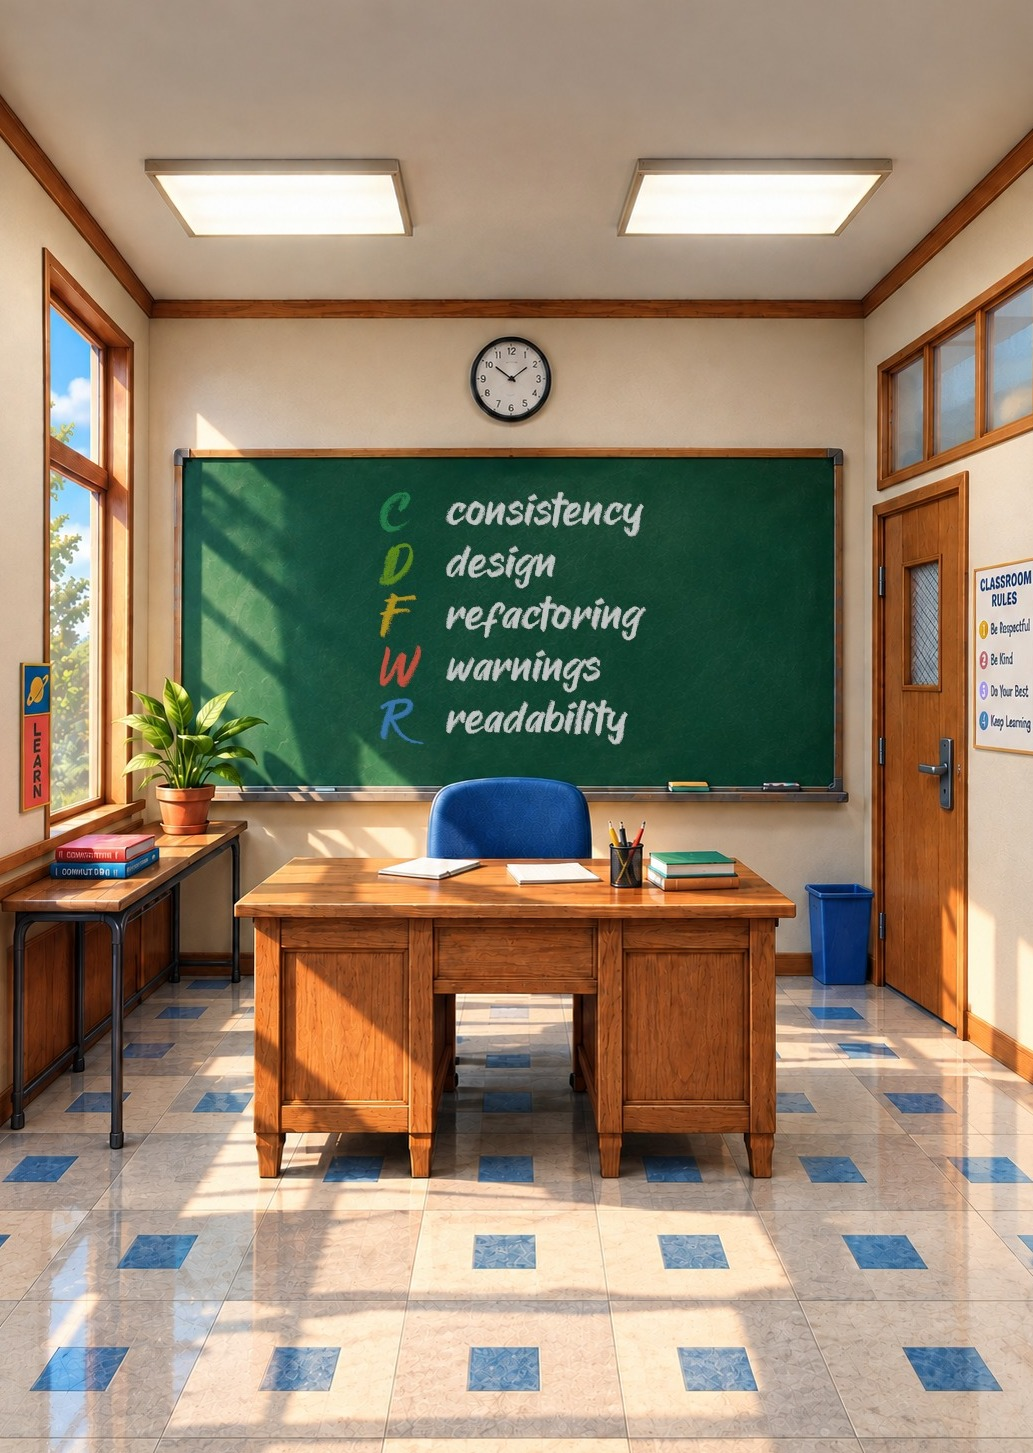
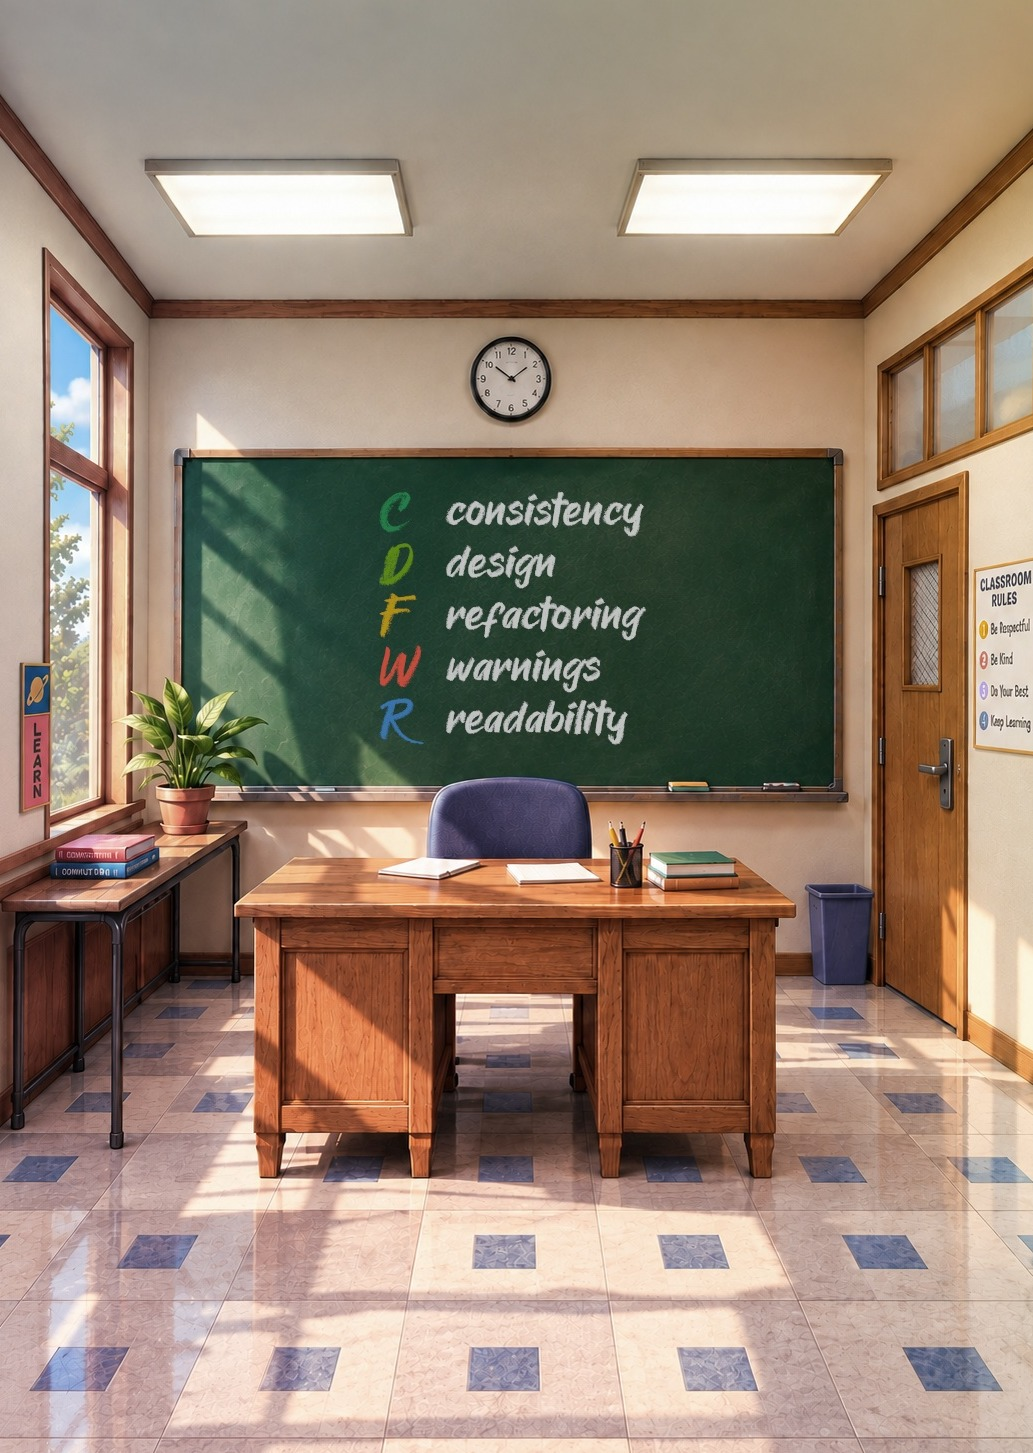
credo's classroom graded toward the violet
The author regraded the expansion in the editor, cooler and toward the
house violet, nothing moved. Logged as change 4, the hero cut at the
same place, stamped with the recorded options.

diff --git a/assets/covers/README.md b/assets/covers/README.md
@@ -142,7 +142,7 @@ rather than read back off a cover.
 | db_admin | console, late 80s — proposal 4, the alternative, chosen against an early-carton recommendation; the second console cover after exdebug. The box that pgadmin and adminer merged into; neither had art | lucid — the mechanism lets you see what you had been handling blind, laid out as it is, and leaves the hands to you; added for this cartridge | tr, `--size 0.19`, `--mark pgAdmin=marks/1-pgadmin.png --mark phpMyAdmin=marks/2-phpmyadmin.png --mark Adminer=marks/3-adminer.png --mark CloudBeaver=marks/4-cloudbeaver.png` — two turns under the banner, hero at 4:5 (825×1024) with its own lockup and no flash, first take; the expansion found at 1.00, edge-padded 5–15px within tolerance. The badge is the four admins' own marks, the author's call: composited by `--mark`, never asked of the generator — the projects' files, in `marks/` with `SOURCES.md` (the author's reference image had DBeaver's beaver for CloudBeaver, phpMyAdmin's legacy schooner and Adminer without its `<?`) — a row of rounded squares, each name under it, centred along the top of the window, where the hero keeps its top fifth calm. The seal at the default 0.23 met the row's last square at tr and covered the subtitle's P at br: 0.19 at tr, the row at 0.06 of the window's height Back on the first plate: console, violet board with a hard gradient, the embossed shield holding the door's four portholes as circles, nothing lettered; its band came back tan and lighter and was kept, the strip set inside it (`NAME_Y=1.298`, `INSTALL_ROW=beside`). Two frames at the shots' 580:503, 0.40 of the width each, off two probes seeded with a plant's production lines and downtime: Adminer on Postgres and phpMyAdmin on MySQL, each opened through the file the box writes, cropped to the table at about 2×; the copy from `NEED.md` and `DESIGN.md`, headline *No more SQL in the dark*, badge `4 ADMINS` (the front's marks, counted); `ERA=console`, accent the vault's orange `#FC8133` |
 | precommit | manual — made in conversation with the generator from proposal 3 (the editorial cover) as its starting point, and the era left behind with it: what came back is a photographic door, not a printed editorial ground. The image is the source, `cover.prompt.txt` its log of changes | scrupulous — the mechanism holds back what you were about to send, over something small, and holds it because you fitted it there and for nobody else; subtitles halt (`NOT YET`). New for this cartridge | tr, `--inside`, `--size 0.20`, **no badge** — the typeset `4 CHECKS` was stamped once and taken off: a white chip reads as a sticker from another system on photographic art, and this hero composes its own lettering (`PreCommit` / `Not yet.`, title case, uncorrected — the image is the source). The expansion made by hand, not by the second turn (`precommit/expand.py`), since the margins are wood grain rather than flat fields: the hero's own edge rows and columns repeated outward, and every pixel of it falls under the board. Two generated takes are archived before it, with their prompts, and the editorial hero's sealed cover and expansion with the second. Kept against the format block's value clause on purpose: the art means 41.5 in luminance against the board's 56.1, and in the seal's corner 52.3 — not *clearly* darker. It reads as a socket all the same, and the reason is the overlay: a banner meets the art along the top and the foot only, where this hero is at its darkest, and the sides are open. One cover is not evidence enough to touch the clause. Back on the first plate, manual like the front: asked from the hero as the reference image, it came back violet and lit from the right like the door, the chain ghosted straight down its middle and the door's wood as the strip, nothing lettered — and a photographed 3–4px rim, trimmed rather than regenerated (the plate as it came is `back-1`). Two real terminal shots from a scratch project, a commit refused by the formatter in the container and the hook's two blocks; accent `#B9A88A`, the hero's aged brass at its brightest; the `4 CHECKS` badge the front does not carry, since on the back everything is typeset |
 | test_doubles | manual — made in conversation with the generator from proposal 5 (CD-ROM, early 90s) as the starting point, after the editorial prompt (proposal 3, as recommended) was written and generated and its take did not read: three handsets seen from above did not say *stand-in*, the whole idea resting on three small debossed captions under objects that are not figures. No editorial take reached the repository, so none is archived. The image is the source, `cover.prompt.txt` its log of changes. The box that takes over from `mock`; mock had no art | understudy — the mechanism sends in a stand-in that plays the part exactly, so the real one is never called and nothing is at risk; added for this cartridge. The other half of mailer's *rehearsing*: there the real thing runs and goes nowhere, here it is not run at all | tr, `--inside`, `--size 0.15`, `-m 0.05,0.0164` — the seal raised 10px off the default inset, to 117px from the face's top, which leaves 12px of window above it: the banner it rests on ends high, and at the default 127px the seal sat low on its frame; 112px put it within 7px of the band and read tight. The manual hero at 4:5 (825×1024) with its own lockup, badge and captions, no furniture; the expansion painted by the second turn, which named what continues on each side — the bridge's ceiling above, the deck's plating and console strip below, the wall's panelling and its recessed screens at the sides — and came back as the padded canvas scaled down whole (727×1024 from 863×1214), hero found at correlation 0.97, edge-padded 2px, 2px and 4px within tolerance, face 730×1027 with the board at 1.00× its own size. A hand expansion was made first (`test_doubles/expand.py`, kept as the fallback): the hero's top and bottom edge rows are one near-flat dark band (stddev 6.9 and 3.9 over the 8 rows at each edge) and continue cleanly, but **this overlay has no board at the sides**, so the 19px slivers `pad` leaves there are on the finished cover, and a repeated column of the bridge's wall panelling shows where a painted one does not — which is the case for sending the turn even when the margins above and below are flat. **A manual hero is never told to keep a corner calm**, and this one came back with lettering in all four: badge at top left, a banner at top right, the lockup across both bottom corners — so the lettering bands were measured in the hero's own fractions before a corner was chosen (banner 0.073–0.857 of the width at 0.03–0.14 of the height; captions to 0.928 at 0.16–0.25), and at 0.23 the seal ate `Hammox` and the top of `BUILT TO SPEC` at tr and the lockup at either bottom corner. Change 1 of the log shortened the banner from `Mimic · Mox · Hammox` to `Mimic · Mox` — which also took a contradiction off the face, the badge counting two doubles beside three names, Hammox being what `--type-check` puts in Mox's place and not a third value of `--double` — and the seal at 0.15 clears every string, resting on the empty right end of the banner's frame  Back on the first plate, manual like the hero and made in conversation, not from the prompt written for it: not a board but an **interior** — a violet bulkhead with a lit panel of gears across the middle, a bench of flasks and two CRTs along the foot, two ghosted sunbursts, nothing lettered. It breaks the pattern the strip assumes, and composes anyway (`back.md`: judge a plate composed, not bare): measured band by band, the ceiling at 0.00-0.12 is the flattest field (stddev 6-10) and takes the two frames; the gears at 0.44-0.70 (stddev 17-24) carry the features, which read over them in the era's black; the plain wall at 0.70-0.80 takes the quote; the dark foot from 0.94 (stddev 11-19) is the band, thin, so `INSTALL_ROW=beside` and the row a step smaller (`NAME_POINT=0.019`, `INSTALL_POINT=0.014`) — at `NAME_Y=1.325` the legal line and the version ran off the face, 1.295 fits them. Two 600:279 frames at 0.40 of the width (2.06x), both terminals off a local `phx.new` probe with coverage installed, which is the cartridge that composes this box: the test helper with coverage's own block and the `mimic` dep behind it, and `mix test` on the cover task — nine green, `0.2s async, 0.00s sync`, the concurrency `mock` had cost it. The shots were cropped to their content and the shorter padded to the other's height, so both frames take one rectangle. The copy from `NEED.md` and `DESIGN.md`, headline *The real one never answers*, the quote Valim's own; the flash's second line cut to two-part versions to fit its box; `ERA=cdrom`, accent the wireframe figure's cyan read off the hero (#B9E6F3) |
-| credo | manual — made by the author outside the repository from proposal 7 (the classroom, the author's own, off Credo's own word for itself, *teaching*) and the classroom drawing that was its reference; the image is the source, `cover.prompt.txt` its log of changes. It replaces a prompted console hero (late 80s) of five takes: 1 carton (27 fractions lettered on the face), 2 not generated, 3 console (6 fractions as a margin scale), 4 accepted and its lockup kept, 5 sealed — the prompted box archived whole as `cover-4*` (hero, padded canvas, expansion, cut, sealed), the manual hero as it arrived as `hero-manual-1.png`. The drawing and its 4:5 crop were deleted by the author | tireless — the same remark the thousandth time as the first, no heat in it (added for credo); subtitle `THE LESSON STANDS` | tr, `--inside --size 0.18`, `--mark credo=marks/1-credo.png --lockup art/lockup.png --lockup-fit 0.50,0.05 --lockup-at 0.5,0.838 --mark-beside-lockup` — Credo's own mark and the title composited as one centred block in the **lower part** of the window, over the desk's legs and the tiled floor (set by the author by eye at 0.838, 100px above the first 0.92), the calmest band of this hero; the seal inside at top right, on the ceiling between the right fixture and the transom windows. The prompted hero had them the other way round (lockup at the top over a bare ceiling, `--seal-at 0.5,0.93`), and on this hero that put the subtitle over the wall clock and the title over both fixtures; straddling tr, the seal covers the banner's `WORKBENCH`. The manual hero at 4:5 (1126×1397), the board chalked with the five groups and their colours, no title, no badge; the expansion painted by the second turn, which came back as the padded canvas scaled down whole (1057×1488 from 1177×1656), hero found at correlation 0.93, face 1033×1453, the board 1.42× its own size. Change 2 put the board's five rows in the colours of Credo's mark, its bars top to bottom (green, lime, mustard, coral, blue), chosen by the author over the terminal's cyan, olive, yellow, blue and red, and corrected `Warning` to *Warnings*; it was sent to the expansion rather than the hero and came back at the expansion's size with nothing else moved, so the hero is cut from the expansion where `cut` had found the first (correlation 1.00). Change 3, made by the author and logged after it, rewrote the board in chalk — lowercase words after coloured chalk initials, the ruled table gone — sent to the expansion again and cut and stamped as change 2 was; it reads C, D, F, W, R, the last two swapped against the mark's bars. Open: two book spines lettered in non-words. Back on the first plate, from its prompt alone with no reference attached: violet board lit from the upper left like the front, a blind-stamped shield holding **five bars** (the five groups, the mark's echo with no lettering), the band from 1.260; two frames at 600:520 holding real screens off a `phx.new` probe with the cartridge inserted `--githook` — `mix credo` over a shift-report module (three remarks, two of them the front's chalk verbatim) and `cat .githooks/pre-commit` (credo's block above the slow divider) — headline *NOBODY SAYS IT TWICE.*, the quote Credo's README's own first line, `INSTALL_ROW=beside` because two rows ran the legal line and the version off a 0.147 band, `ERA=console`, accent the front's ochre |
+| credo | manual — made by the author outside the repository from proposal 7 (the classroom, the author's own, off Credo's own word for itself, *teaching*) and the classroom drawing that was its reference; the image is the source, `cover.prompt.txt` its log of changes. It replaces a prompted console hero (late 80s) of five takes: 1 carton (27 fractions lettered on the face), 2 not generated, 3 console (6 fractions as a margin scale), 4 accepted and its lockup kept, 5 sealed — the prompted box archived whole as `cover-4*` (hero, padded canvas, expansion, cut, sealed), the manual hero as it arrived as `hero-manual-1.png`. The drawing and its 4:5 crop were deleted by the author | tireless — the same remark the thousandth time as the first, no heat in it (added for credo); subtitle `THE LESSON STANDS` | tr, `--inside --size 0.18`, `--mark credo=marks/1-credo.png --lockup art/lockup.png --lockup-fit 0.50,0.05 --lockup-at 0.5,0.838 --mark-beside-lockup` — Credo's own mark and the title composited as one centred block in the **lower part** of the window, over the desk's legs and the tiled floor (set by the author by eye at 0.838, 100px above the first 0.92), the calmest band of this hero; the seal inside at top right, on the ceiling between the right fixture and the transom windows. The prompted hero had them the other way round (lockup at the top over a bare ceiling, `--seal-at 0.5,0.93`), and on this hero that put the subtitle over the wall clock and the title over both fixtures; straddling tr, the seal covers the banner's `WORKBENCH`. The manual hero at 4:5 (1126×1397), the board chalked with the five groups and their colours, no title, no badge; the expansion painted by the second turn, which came back as the padded canvas scaled down whole (1057×1488 from 1177×1656), hero found at correlation 0.93, face 1033×1453, the board 1.42× its own size. Change 2 put the board's five rows in the colours of Credo's mark, its bars top to bottom (green, lime, mustard, coral, blue), chosen by the author over the terminal's cyan, olive, yellow, blue and red, and corrected `Warning` to *Warnings*; it was sent to the expansion rather than the hero and came back at the expansion's size with nothing else moved, so the hero is cut from the expansion where `cut` had found the first (correlation 1.00). Change 3, made by the author and logged after it, rewrote the board in chalk — lowercase words after coloured chalk initials, the ruled table gone — sent to the expansion again and cut and stamped as change 2 was; it reads C, D, F, W, R, the last two swapped against the mark's bars. Change 4, made by the author in the editor and logged after it, regraded the whole expansion cooler and toward the violet, nothing moved; cut and stamped as change 3 was. Open: two book spines lettered in non-words. Back on the first plate, from its prompt alone with no reference attached: violet board lit from the upper left like the front, a blind-stamped shield holding **five bars** (the five groups, the mark's echo with no lettering), the band from 1.260; two frames at 600:520 holding real screens off a `phx.new` probe with the cartridge inserted `--githook` — `mix credo` over a shift-report module (three remarks, two of them the front's chalk verbatim) and `cat .githooks/pre-commit` (credo's block above the slow divider) — headline *NOBODY SAYS IT TWICE.*, the quote Credo's README's own first line, `INSTALL_ROW=beside` because two rows ran the legal line and the version off a 0.147 band, `ERA=console`, accent the front's ochre |
 | test_data | editorial cover, mid 80s — proposal 3, as recommended; the first editorial cover on the shelf (precommit's editorial take was left for a manual door). The box exmachina was renamed into; it had no art | supporting — the mechanism supplies everyone the scene needs, plausible and forgettable, so the one you came for stands alone where you can see it (added for test_data); subtitle `THE REST ARE EXTRAS` | tr, `--inside --size 0.20`, no `--badge` (the hero's own debossed `4 RULES` came back right at the top left). One take: seven paper dolls from one strip, six with one graphite detail each, the centre one coloured violet with `ANA` on its chest, lockup and flash lettered by the generator. Its margins are one flat warm grey, so no second turn: `test_data/expand.py` repeats the hero's edge rows and columns (precommit's recipe), and `cut` found the hero at correlation 0.99. Back on the second plate (the first came back 4:5 with a floating band, archived as `back-1`): even violet coated stock, the era's colophon debossed — an oval with one paper doll inside, arms out — the band from 1.272; two frames at 600:520 holding real screens off a `phx.new` probe — `mix test --trace` over the factory test, two factories inserting and `orphan_post` failing by name on the foreign key, and the factory module's four rules above its factories — headline *EVERYONE ELSE IS CAST.*, the quote Pryce's, `INSTALL_ROW=beside`, `ERA=editorial`, accent the front's paper `#F3E8D5` (its violet disappears on a violet back). A small square blemish on the plate falls under the second frame |
 
 When `NEED.md` joined the cartridge anatomy (2026-08-30) the five
